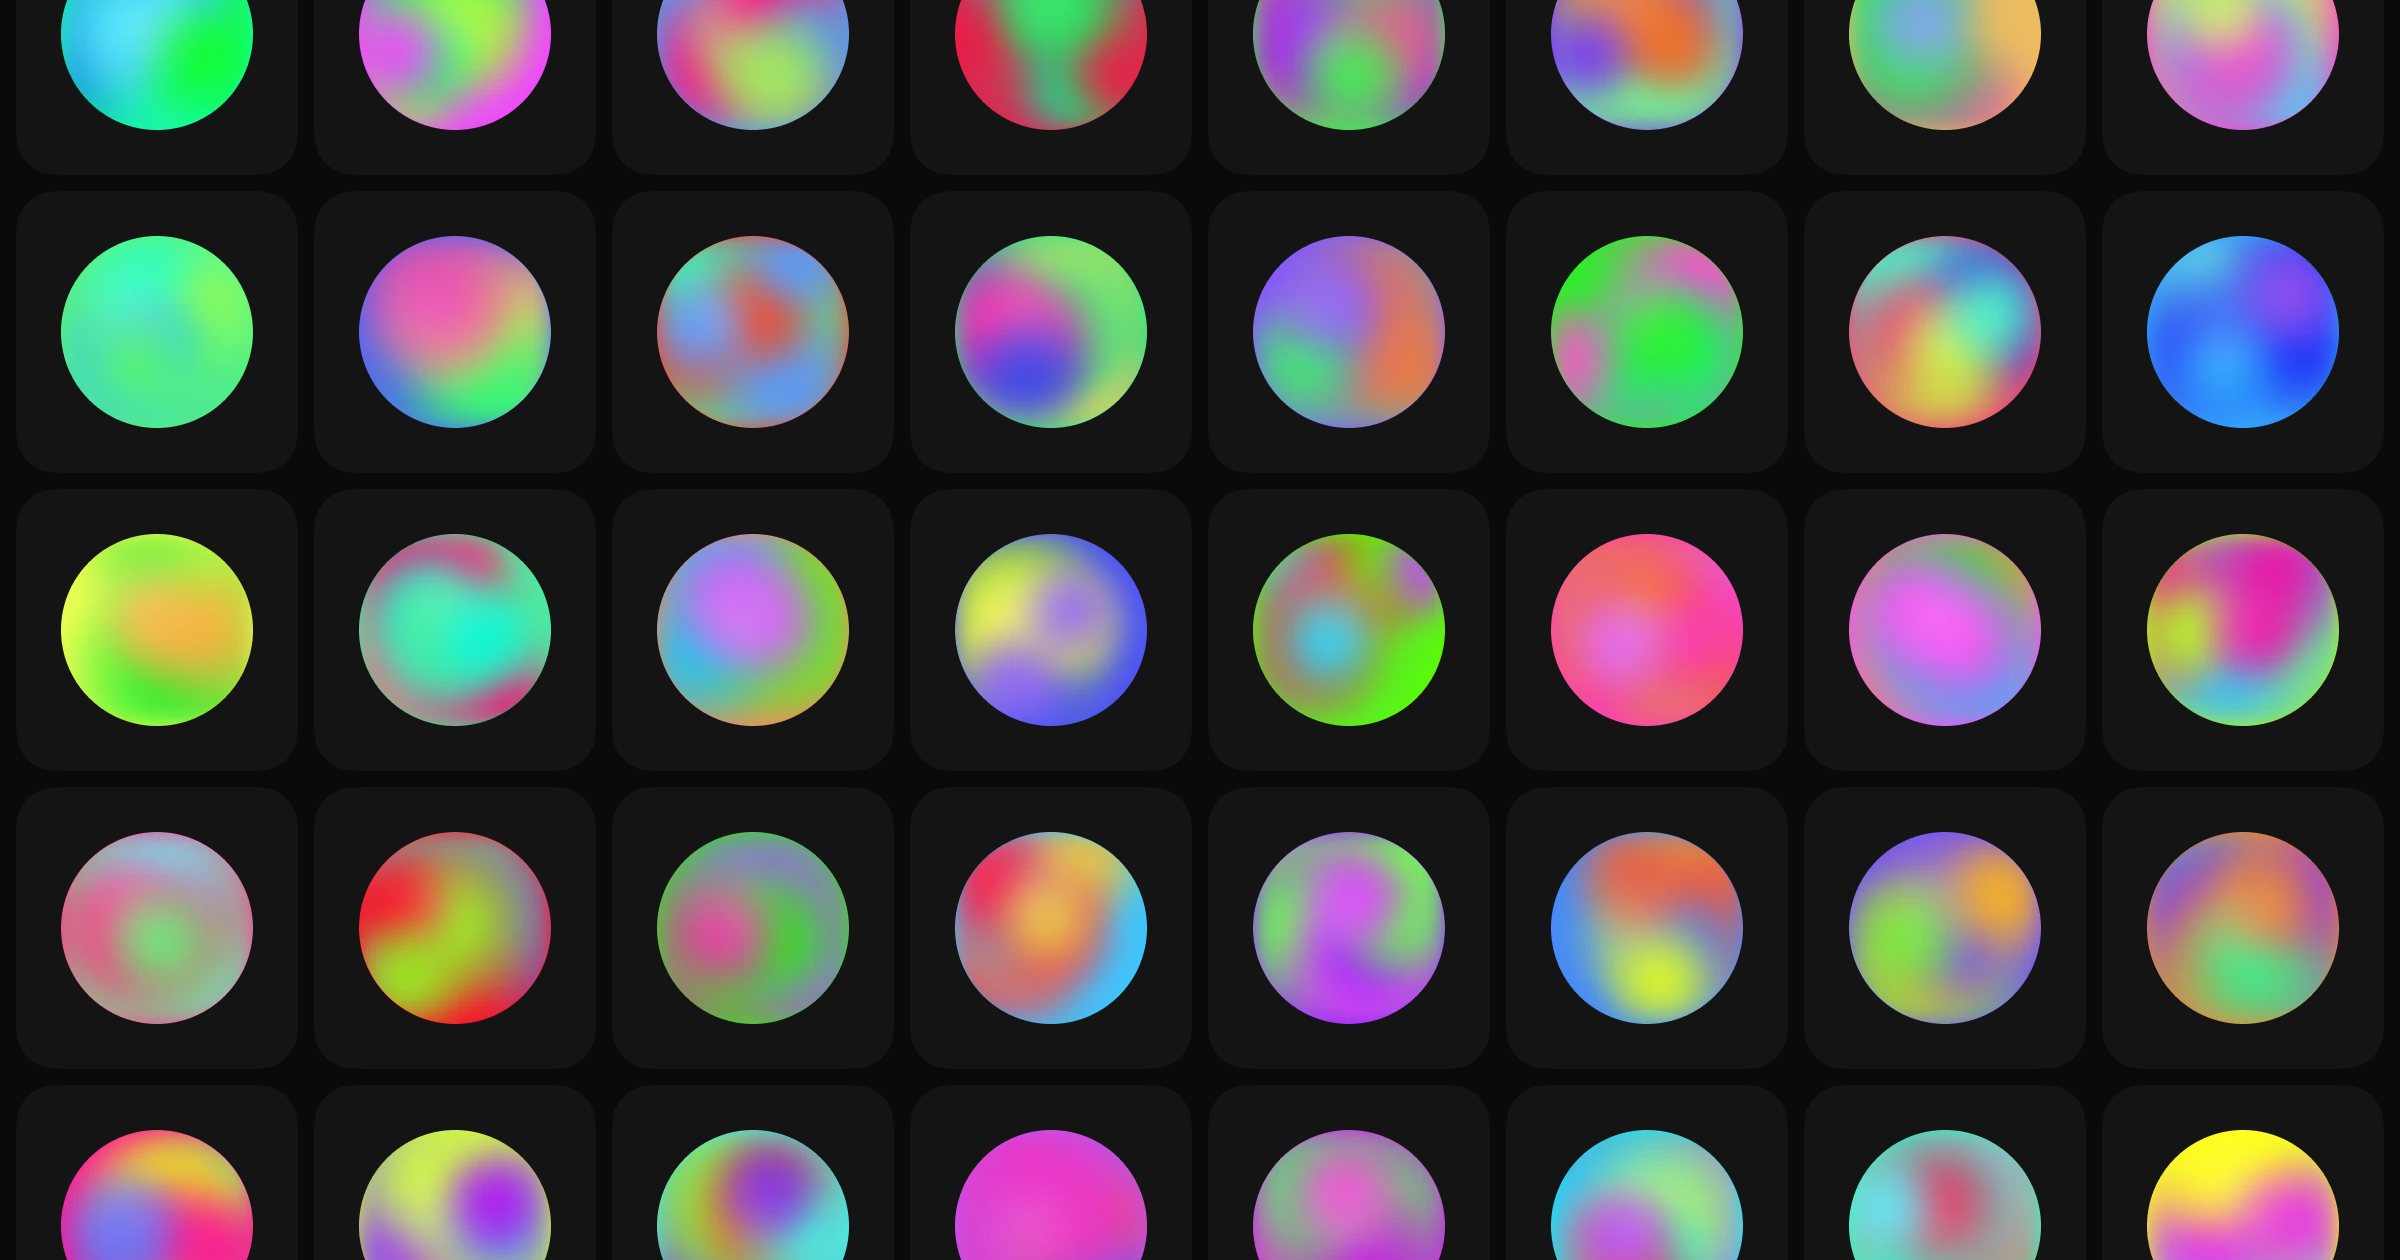
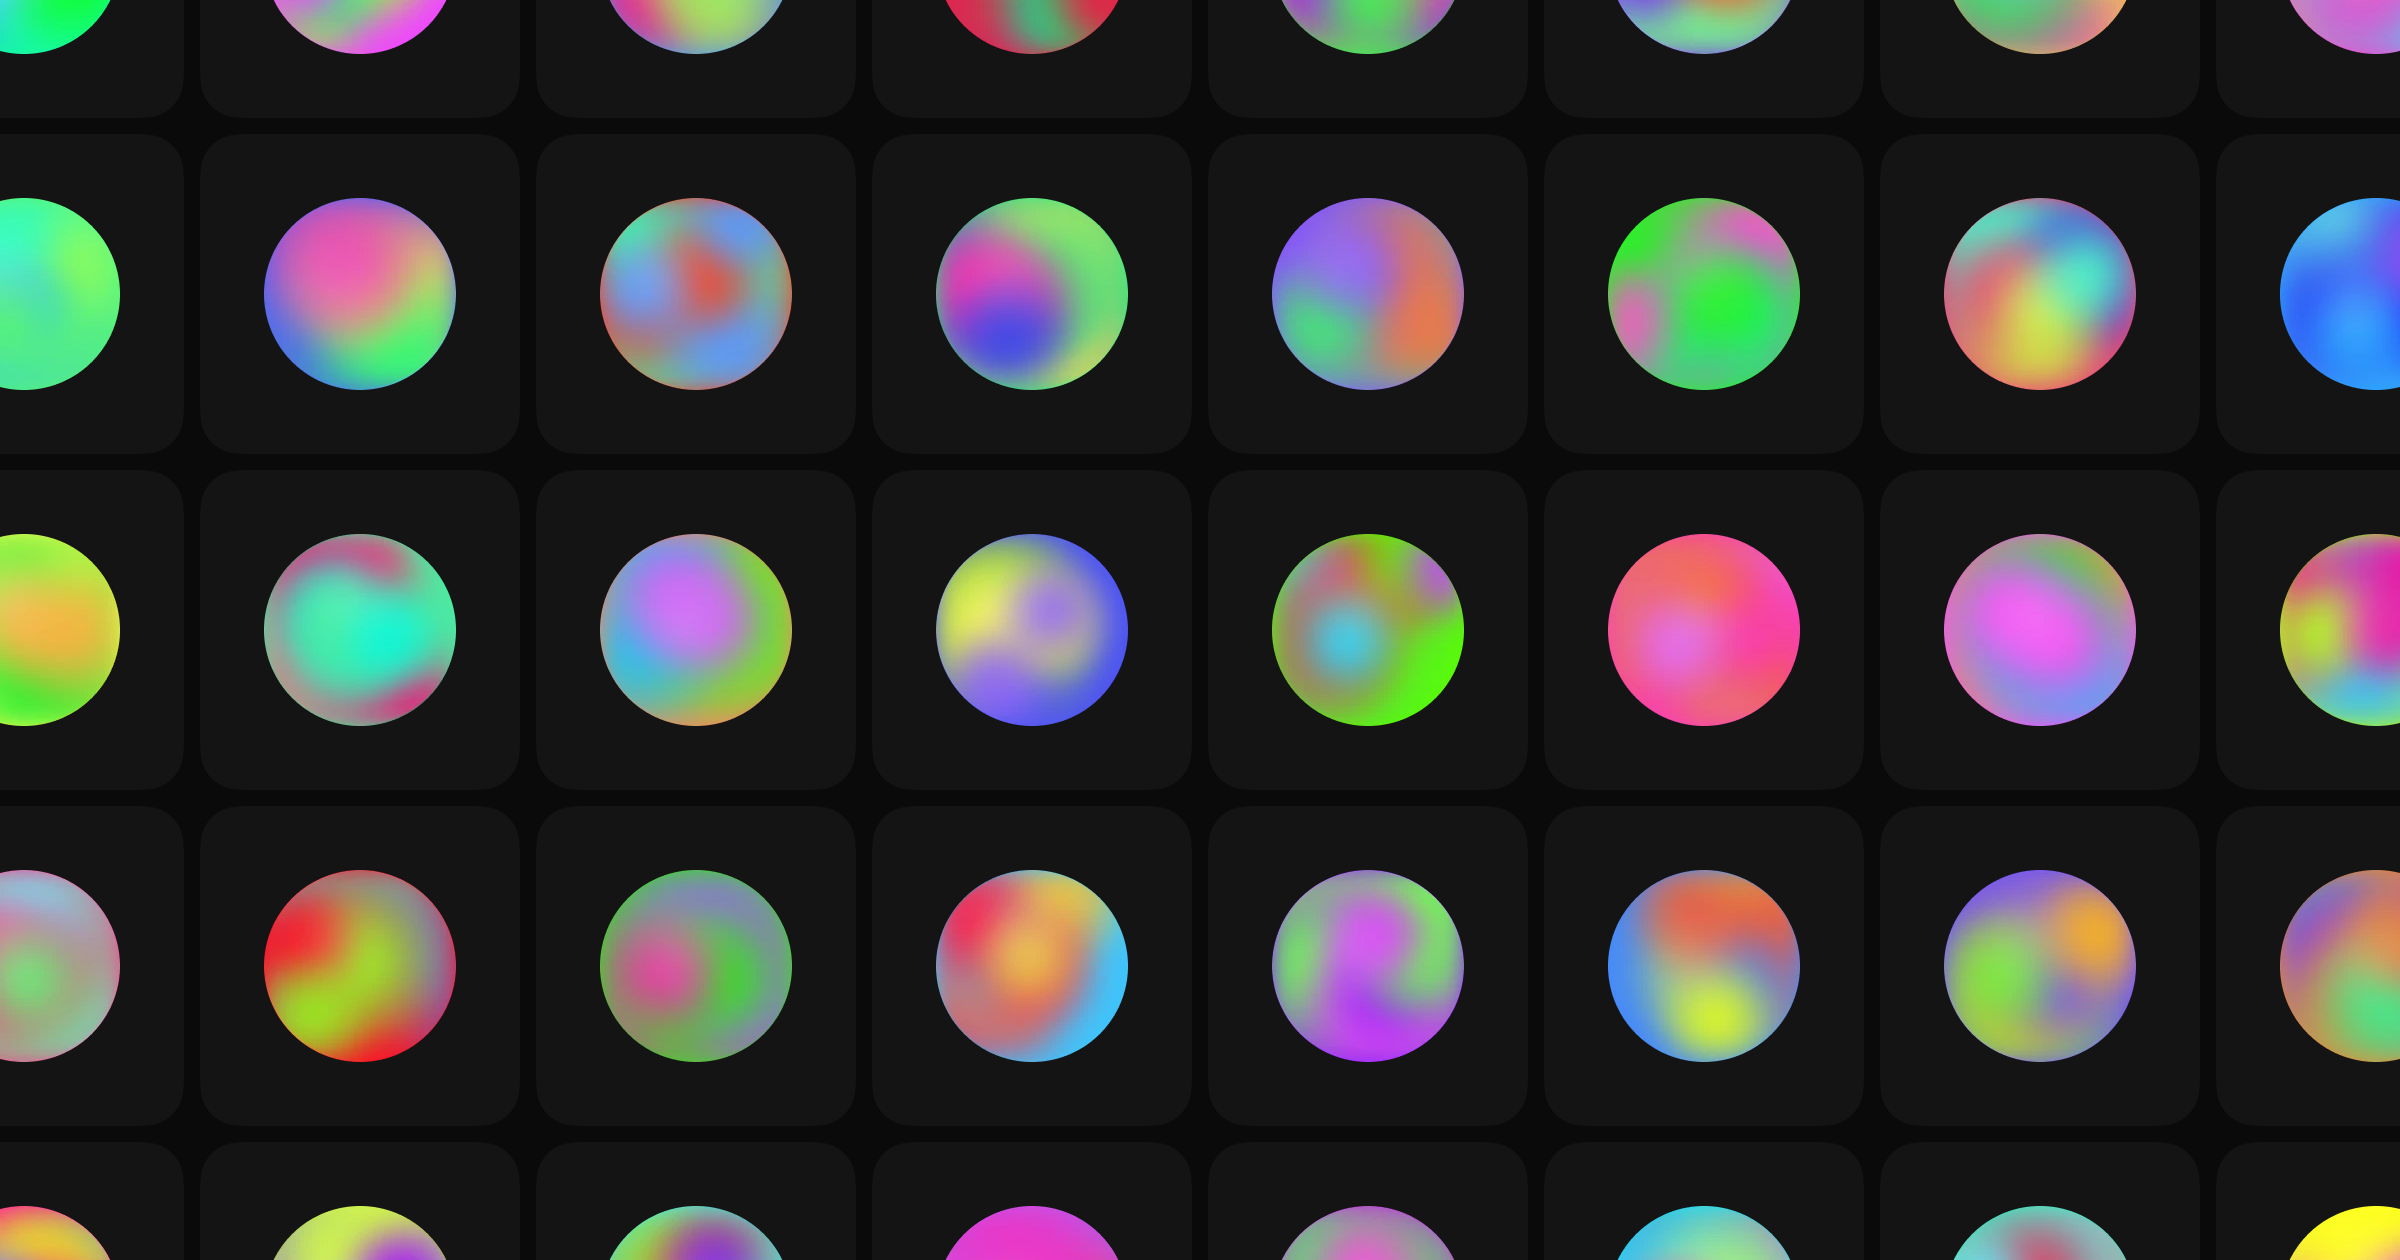
Update meta image and titles

diff --git a/src/app/layout.tsx b/src/app/layout.tsx
@@ -5,8 +5,8 @@ import "./globals.css";
 const jsonLd = {
   '@context': 'https://schema.org',
   '@type': 'WebPage',
-  name: '50 beautifully handcrafted gradients',
-  description: '50 beautifully handcrafted gradient avatars, free to use under CC BY 4.0',
+  name: 'Beautifully handcrafted gradients',
+  description: 'Beautifully handcrafted gradient avatars, free to use under CC BY 4.0',
   publisher: {
     '@type': 'Organization',
     name: 'Outpace Studios',
@@ -19,10 +19,10 @@ const jsonLd = {
 export const metadata: Metadata = {
   metadataBase: new URL('https://avatars.outpace.systems'),
   title: {
-    default: '50 beautifully handcrafted gradients - by Outpace Studios',
+    default: 'Beautifully handcrafted gradients - Outpace Studios',
     template: '%s - Outpace Studios'
   },
-  description: '50 beautifully handcrafted gradient avatars, free to use. Beautiful colorful profile pictures for apps, products, and brands. Licensed under CC BY 4.0.',
+  description: 'Beautifully handcrafted gradient avatars, free to use. Beautiful colorful profile pictures for apps, products, and brands.',
   keywords: ['gradient avatars', 'free avatars', 'profile pictures', 'colorful avatars', 'gradient pfp', 'free profile pics', 'abstract avatars'],
   authors: [{ name: 'Outpace Studios', url: 'https://outpacestudios.com' }],
   creator: 'Outpace Studios',
@@ -32,14 +32,14 @@ export const metadata: Metadata = {
     locale: 'en_US',
     url: 'https://avatars.outpace.systems',
     siteName: 'Outpace Studios',
-    title: '50 beautifully handcrafted gradients - by Outpace Studios',
-    description: '50 beautifully handcrafted gradient avatars, free to use. Beautiful colorful profile pictures for apps, products, and brands',
-    images: [{ url: '/meta.jpg', width: 1200, height: 630, alt: '50 beautifully handcrafted gradients by Outpace Studios' }]
+    title: 'Beautifully handcrafted gradients - by Outpace Studios',
+    description: 'Beautifully handcrafted gradient avatars, free to use. Beautiful colorful profile pictures for apps, products, and brands',
+    images: [{ url: '/meta.jpg', width: 1200, height: 630, alt: 'Beautifully handcrafted gradients by Outpace Studios' }]
   },
   twitter: {
     card: 'summary_large_image',
-    title: '50 beautifully handcrafted gradients - by Outpace Studios',
-    description: '50 beautifully handcrafted gradient avatars, free to use.',
+    title: 'Beautifully handcrafted gradients - by Outpace Studios',
+    description: 'Beautifully handcrafted gradient avatars, free to use.',
     images: ['/meta.jpg']
   },
   robots: {